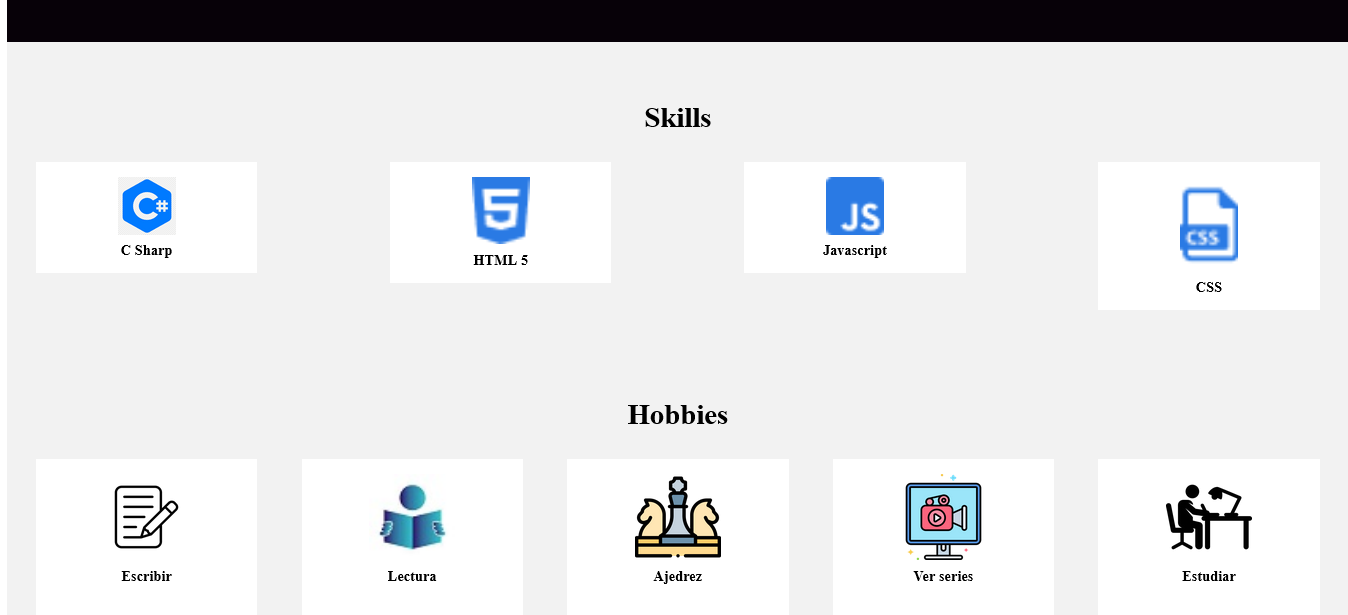
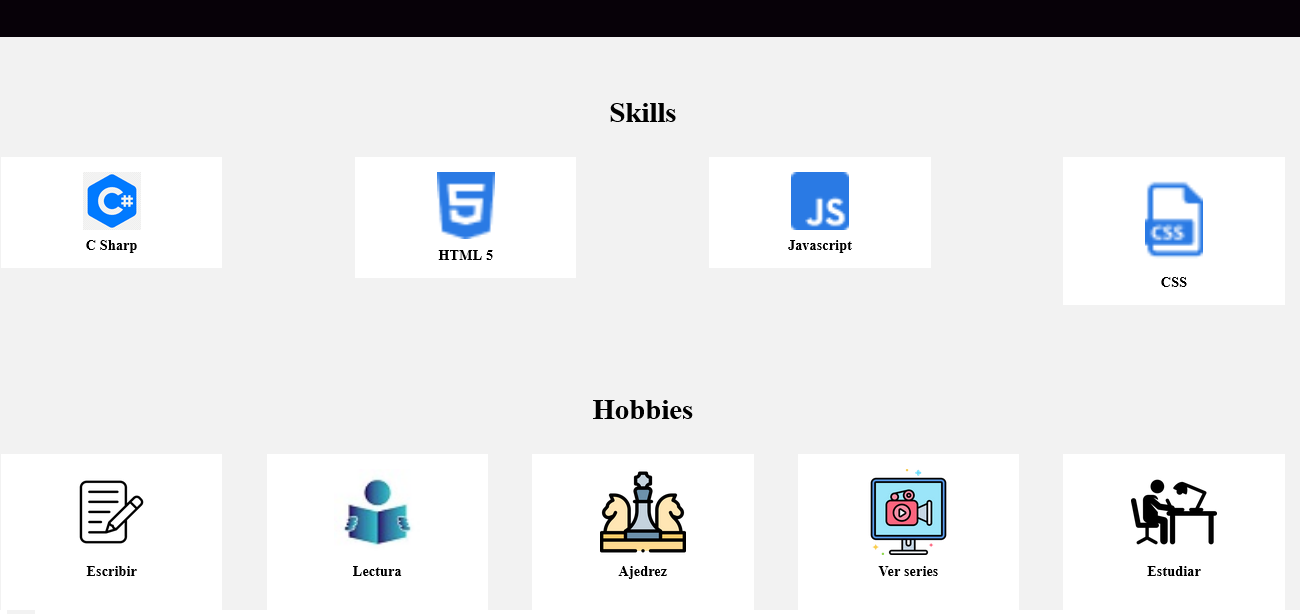
Add files via upload
cambio de iconos y otros detalles del encabezado

diff --git a/index.html b/index.html
@@ -20,11 +20,12 @@
                     <li class="menu_lista_idem"><a href="#skills">Skills</a></li>
                     <li class="menu_lista_idem"><a href="#hobbies">Hobbies</a></li>
                     <li class="menu_lista_idem"><a href="#formacion">Formación</a></li>
-                    <li class="menu_lista_idem"><a href="#xp">Proyectos</a></li>
+                    <li class="menu_lista_idem"><a href="#xp">Experiencia</a></li>
                     <li class="menu_lista_idem"><a href="#contacto">maesberi@gmail.com</a></li>
                 </ul>
             </nav>
         </section>
+        
         <section class="titulo">
             <div class="titulo_div">
             <img class="titulo_perfil" src="imagenes/profile.jpg"/>
@@ -70,25 +71,25 @@
                 <h3 class="skills_titulo">Skills</h3>
                 <div class="skills_line">
                     <div class="skills_box">
-                        <div class="skills_img"><img src="imagenes/csharp.png" /></div>
+                        <div class="skills_img"><img src="imagenes/csharp.svg" /></div>
                         <div class="skills_name"> C Sharp</div>
                     </div>
                     <div class="skills_box">
-                    <div class="skills_img"><img src="imagenes/htlm.png" /></div>
+                    <div class="skills_img"><img src="imagenes/htlm.svg" /></div>
                     <div class="skills_name">HTML 5</div>
                 </div>
         
                 <div class="skills_box">
-                    <div class="skills_img"><img src="imagenes/js_icon.png" alt="Javascript" />
+                    <div class="skills_img"><img src="imagenes/js_icon.svg" alt="Javascript" />
                     </div>
                     <div class="skills_name">Javascript</div>
                 </div>
         
                 <div class="skills_box">
                     <div class="skills_img">
-                        <img src="imagenes/css_icon.png" alt="Css3" />
+                        <img src="imagenes/css_icon.svg" alt="Css 3" />
                     </div>
-                    <div class="skills_name">CSS</div>
+                    <div class="skills_name">Css 3</div>
                 </div>
                 </div>
             </section>
@@ -134,41 +135,41 @@
                 <div class="academica_courses">
                 <div class="academica_courses_box">
                     <ul class="academica_courses_list">
-                        <li class="academica_courses_item_img">
+                        <div class="academica_courses_item_img">
                         <img src="imagenes/ueslogo.jpg" />
-                    </li>
-                    <li class="academica_courses_item_title">
+                        </div>
+                    <div class="academica_courses_item_title">
                         <h3>Licenciatura en Contaduría Pública</h3>
-                    </li>
-                    <li class="academica_courses_item_subtitle">
+                    </div>
+                    <div class="academica_courses_item_subtitle">
                     <p>2008 - 2014</p>
-                    </li>
+                    </div>
                     </ul>
                 </div>
                 <div class="academica_courses_box">
                     <ul class="academica_courses_list">
-                        <li class="academica_courses_item_img">
+                        <div class="academica_courses_item_img">
                         <img src="imagenes/alura_logo.png" />
-                    </li>
-                    <li class="academica_courses_item_title">
+                    </div>
+                    <div class="academica_courses_item_title">
                         <h3>Dev Junior en Front End</h3>
-                    </li>
-                    <li class="academica_courses_item_subtitle">
+                    </div>
+                    <div class="academica_courses_item_subtitle">
                         <p>2023 - Autodidacta</p>
-                    </li>
+                    </div>
                     </ul>
                 </div>
                 <div class="academica_courses_box">
                     <ul class="academica_courses_list">
-                    <li class="academica_courses_item_img">
+                    <div class="academica_courses_item_img">
                         <img src="imagenes/capacitatelogo.jpeg" />
-                    </li>
-                    <li class="academica_courses_item_title">
+                    </div>
+                    <div class="academica_courses_item_title">
                         <h3>Mantenimiento de computadoras</h3>
-                    </li>
-                    <li class="academica_courses_item_subtitle">
+                    </div>
+                    <div class="academica_courses_item_subtitle">
                         <p>Autodidacta</p>
-                    </li>
+                    </div>
                     </ul>
                 </div>
                 </div>
@@ -180,7 +181,7 @@
                 <img class="experience_img" src="imagenes/secretcode_print.png" />
                 <div class="experience_info">
                     <h2 class="experience_title">Encriptador de texto</h2>
-                    <h3 class="experience_text">Challenge Oracle</h3>
+                    <h3 class="experience_text">Challenge #1 Oracle</h3>
                     <div class="experience_description">
                     <span class="experience_repo">
                         <a href="https://github.com/maesberi/EncriptarText">
@@ -199,7 +200,7 @@
                 <img class="experience_img" src="imagenes/portafolio.png" />
                 <div class="experience_info">
                     <h2 class="experience_title">Portafolio</h2>
-                    <h3 class="experience_text">Challenge Oracle</h3>
+                    <h3 class="experience_text">Challenge #2 Oracle</h3>
                     <div class="experience_description">
                     <span class="experience_repo">
                         <a href="https://github.com/maesberi/portafolio">

diff --git a/index.css b/index.css
@@ -1,14 +1,36 @@
 :root {
     --color-primario: #d6ca8d;
-    --color-sec: #6c6975;
+    --color-sec: #f2f2c5;
     --color-ter: #070108;
     --color-cuarto: #F2F2F2;
     --color-quinto: #0D0D0D;
 }
 
+.body {
+    margin: 0;
+    padding: 0;
+}
+
+.todo {
+    display: flex;
+    flex-direction: column;
+}
+
 .menu_lista_idem {
-    font-size: 24px;
+    font-size: 20px;
     color: #fff;
+    display: flex;
+    justify-content: center;
+}
+
+.menu_lista_idem a {
+    display: block;
+    text-align: center;
+    text-decoration: none;
+    color: #333;
+    padding: 10px;
+    border: 5px solid #ccc;
+    border-radius: 5px;
 }
 
 .about_container {
@@ -55,12 +77,13 @@
 }
 
 .menu_header {
-    background-color: beige;
+    text-align: left;
 }
 
 .menu_header img {
-    height: 5rem;
-    border-radius: 25%;
+    max-width: 60%;
+    height: auto;;
+    border-radius: 15%;
 }
 
 @media (max-width: 425px) {
@@ -68,25 +91,26 @@
         height: 1.2rem;
     }
 }
-
-.menu_lista,
 .menu-nav {
-    display: flex;
-    flex-direction: row;
-    align-items: center;
-    list-style-type: none;
-    gap: 1rem;
-    color: #fff;
+    margin-top: 0;
 }
+
+.menu_lista {
+    width: 50%;
+    flex-direction: row;
+    display: flex;
+    gap: 5px;
+    color: #fff;
+    }
+
 
 .menu_lista_item,
 .menu_lista_item_contacto {
     color: #fff;
+    flex: 1;
+    justify-content: center;
 }
 
-.menu_lista_item a {
-    font-weight: bold;
-}
 
 .menu_lista_item:hover,
 .menu_lista_item_contacto:hover {
@@ -97,12 +121,29 @@
     display: none;
 }
 
-@media (max-width: 425) {
-    .menu_lista_item {
-        display: none;
+@media screen and (max-width: 475) {
+    .todo {
+    flex-direction: row
+    }
+    
+    .menu {
+    flex: 1;
+    padding: 20px 10px;
+    }
+    .menu-nav {
+    margin-top: 0;
+    }
+    .menu_lista {
+    flex-direction: column;
+    gap: 10px;
     }
 
-    .menu_lista_item_contacto {
+    .menu_lista_idem {
+    flex: 1;
+    justify-content: center;
+    }
+
+    .menu_lista_idem_contacto {
         display: block;
         font-weight: bold;
     }
@@ -115,15 +156,16 @@
     }
 }
 
-.menu{
+.menu {
     display: flex;
-    background-color: var(--color-sec);
+    background-color: #f2f2f2;
     justify-content: space-between;
-    padding: 1rem 2rem;
+    padding: 20px;
 }
 @media (max-width:425px) {
     .menu{
         padding: 0.5rem 1rem;
+        flex: 1;
     }
 }
 
@@ -203,7 +245,7 @@
     }
 }
 
-.menu{
+.menu {
     display: flex;
     background-color: var(--color-sec);
     justify-content: space-between;
@@ -411,10 +453,10 @@
 
 .experiencia_boton--repo,
 .experience_boton--demo {
-    padding: 1rem;
-    color: var(--color-sec);
+    padding: 2rem;
+    color: negro;
     background-color: #fff;
-    border: 1px solid var(--color-sec);
+    border: 5px solid var(--color-sec);
     cursor: pointer;
 }
 
@@ -616,7 +658,7 @@
     border: 1px solid var(--color-sec);
 }
 
-@media (max-width: 768px) {
+@media (max-width: 475px) {
     .formcontacto_text {
         width: 100%;
     }
